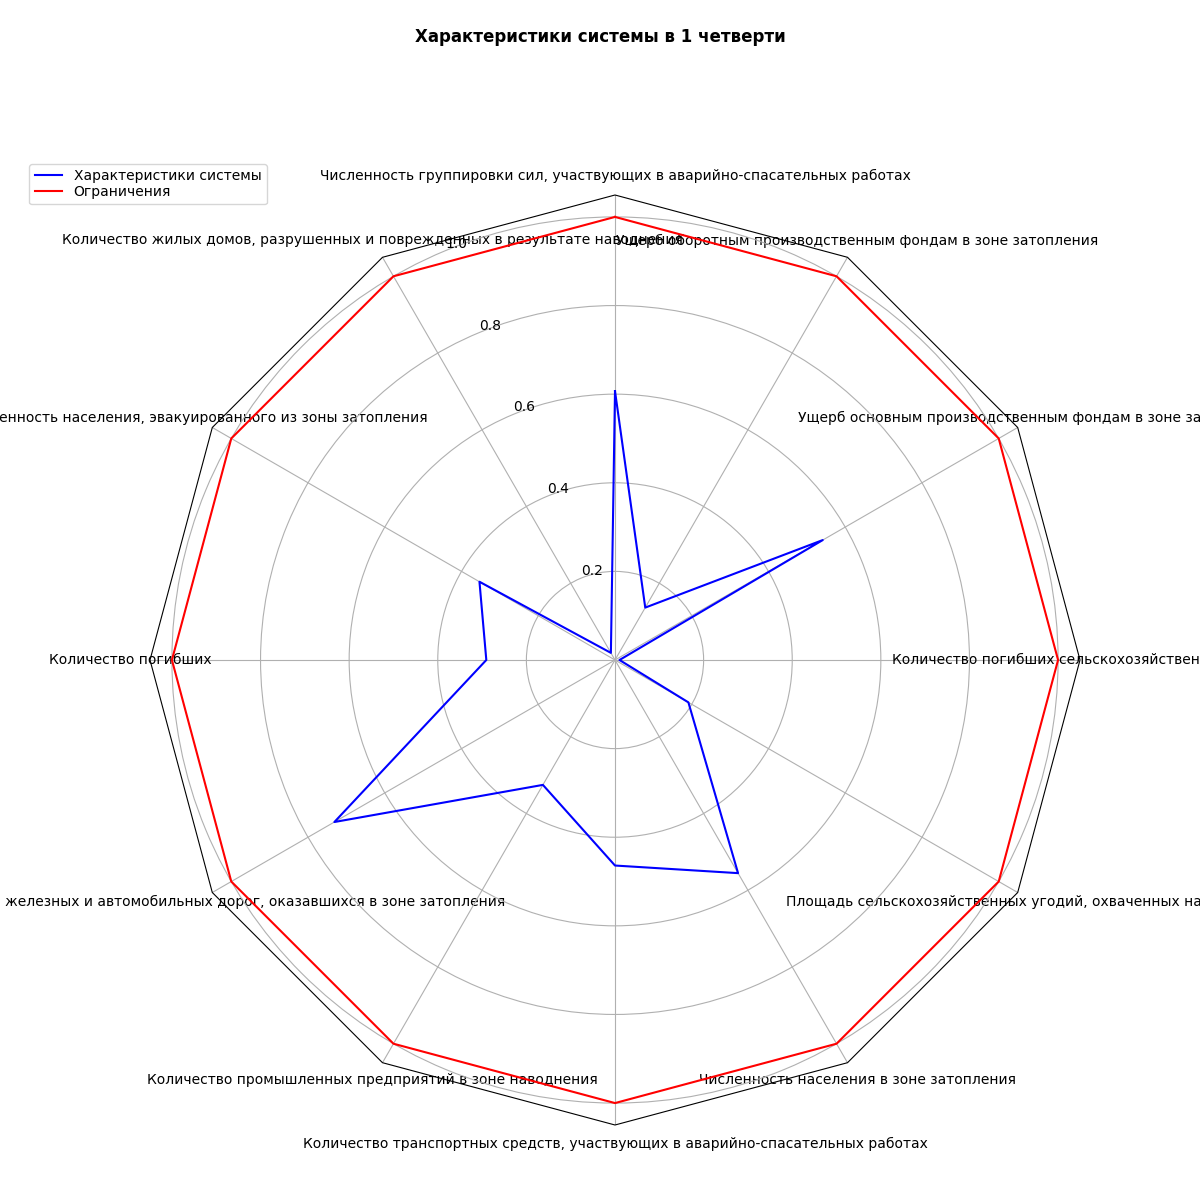
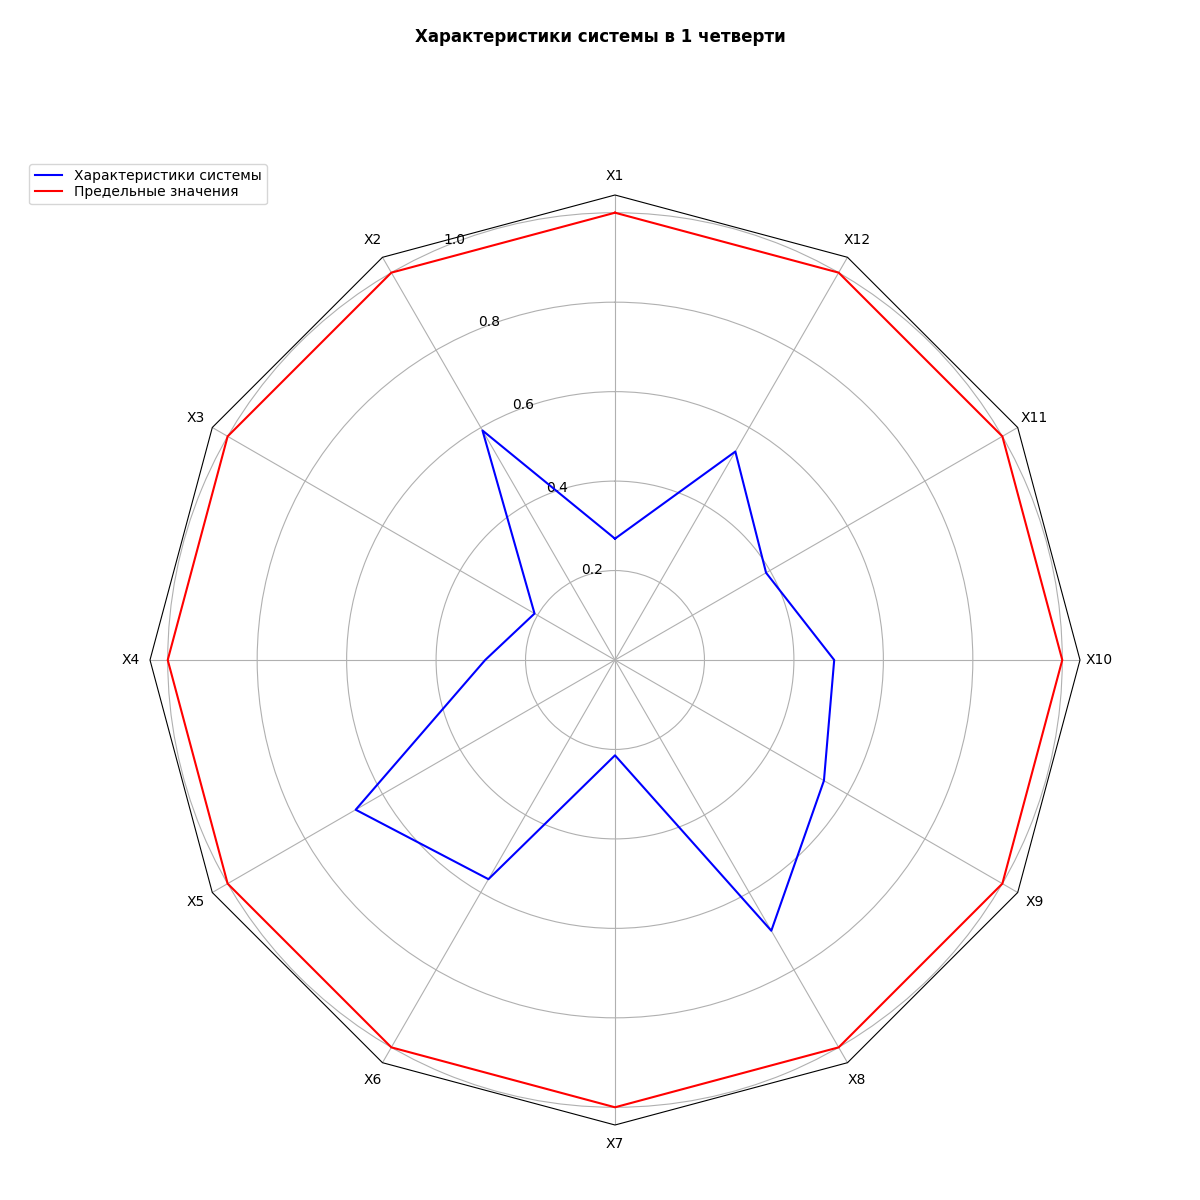
Поправил последние требования

diff --git a/static/templates/index.html b/static/templates/index.html
@@ -49,7 +49,7 @@
                         {% else %}
                         {% set parameter = 'x' %}
                         {% endif %}
-                        <span>{{ x }}(x)=</span>
+                        <span>{{ x }}({{ parameter }})=</span>
                         <input id="equations-{{ loop.index }}-1" type="text">
                         <span>*{{ parameter }}^4+</span>
                         <input id="equations-{{ loop.index }}-2" type="text">

diff --git a/radar_diagram.py b/radar_diagram.py
@@ -94,16 +94,15 @@ class RadarDiagram:
         N = 12
         theta = self.radar_factory(N, frame='polygon')
 
-        spoke_labels = label
-
         fig, axs = plt.subplots(figsize=(12, 12), subplot_kw=dict(projection='radar'))
         fig.subplots_adjust(wspace=1, hspace=1, top=0.85, bottom=0.05)
 
         np.average(data)
         axs.plot(theta, data, color='b')
         axs.plot(theta, restrictions, color='r')
-        axs.legend(["Характеристики системы", "Ограничения"], loc=(-.13, .99), labelspacing=0.1, fontsize='medium')
-        axs.set_varlabels(spoke_labels)
+        axs.legend(["Характеристики системы", "Предельные значения"], loc=(-.13, .99), labelspacing=0.1,
+                   fontsize='medium')
+        axs.set_varlabels(["X1", "X2", "X3", "X4", "X5", "X6", "X7", "X8", "X9", "X10", "X11", "X12"])
 
         fig.text(0.5, 0.965, title,
                  horizontalalignment='center', color='black', weight='bold',

diff --git a/process.py b/process.py
@@ -1,4 +1,5 @@
 import matplotlib.pyplot as plt
+from labellines import labelLines
 import numpy as np
 from scipy.integrate import odeint
 import logging
@@ -30,8 +31,10 @@ def create_graphic(t, data):
     plt.subplot(111)
     for i in range(12):
         plt.plot(t, list(map(lambda elem: 0 if elem < 0 else elem, data[:, i])), color=lines[i][0],
-                 linestyle=lines[i][1], label=u_list[i])
+                 linestyle=lines[i][1], label=f"X{i}")
     plt.xlabel("t, время")
+    plt.ylabel("Характеристики")
+    labelLines(plt.gca().get_lines(), zorder=2.5)
     plt.xlim([0, 1])
     plt.ylim(bottom=0)
     plt.legend(loc='lower right', bbox_to_anchor=(1, 1), labelspacing=0.1, fontsize='small')
